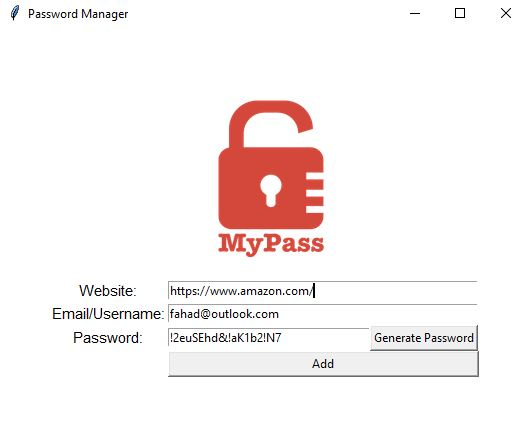
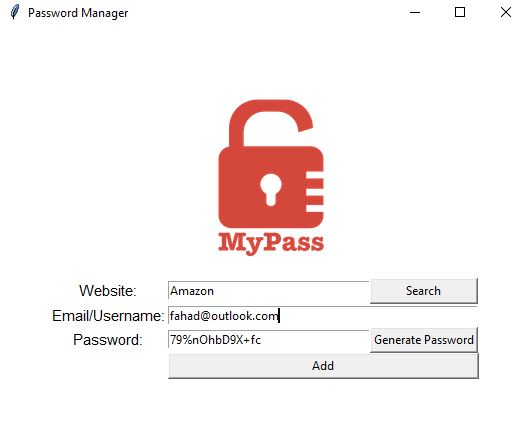
Updated App

diff --git a/main.py b/main.py
@@ -3,6 +3,7 @@ import tkinter
 from tkinter import messagebox
 from random import choice, randint, shuffle
 import pyperclip
+import json
 
 
 class PasswordManager():
@@ -17,7 +18,9 @@ class PasswordManager():
         self.pw_entry = None
         self.gen_button = None
         self.add_button = None
+        self.search_button = None
         self.current_dir = os.path.dirname(os.path.abspath(__file__))
+        self.data_file_path = os.path.join(self.current_dir, "data.json")
         self.setup_ui()
 
     # ---------------------------- UI SETUP ------------------------------- #
@@ -56,8 +59,8 @@ class PasswordManager():
 
     def _setup_user_inputs(self):
         """ Setup Input boxes from user for Website, username and password. """
-        self.web_entry = tkinter.Entry(width=51)
-        self.web_entry.grid(row=1, column=1, columnspan=2)
+        self.web_entry = tkinter.Entry(width=33)
+        self.web_entry.grid(row=1, column=1)
         # Set the cursor at website entry
         self.web_entry.focus()
         self.email_entry = tkinter.Entry(width=51)
@@ -68,12 +71,36 @@ class PasswordManager():
         self.pw_entry.grid(row=3, column=1)
 
     def _setup_buttons(self):
-        """ Setup 'Generate Password' and 'Add' Buttons. """
+        """ Setup 'Search', 'Generate Password' and 'Add' Buttons. """
+        self.search_button = tkinter.Button(text="Search", width=14,
+                                            command=self.search_password)
+        self.search_button.grid(row=1, column=2)
         self.gen_button = tkinter.Button(text="Generate Password", width=14,
                                          command=self.generate_password)
         self.gen_button.grid(row=3, column=2)
         self.add_button = tkinter.Button(text="Add", width=43, command=self.save_data)
         self.add_button.grid(row=4, column=1, columnspan=2)
+
+    # ----------------------------- SEARCH PASSWORD --------------------------------- #
+
+    def search_password(self):
+        """ Search for saved website information. If found display them, else display
+        data not found message. This method is used when 'Search' button is clicked. """
+        website = self.web_entry.get()
+        try:
+            with open(self.data_file_path, "r") as data_file:
+                data = json.load(data_file)
+        except FileNotFoundError:
+            messagebox.showinfo(title="Data File Not Found", message="No data file found.")
+        except json.decoder.JSONDecodeError:
+            messagebox.showinfo(title="Data Not Found", message="No details for website exists.")
+        else:
+            if website in data:
+                email = data[website]["email"]
+                password = data[website]["password"]
+                messagebox.showinfo(title=website, message=f"E-mail: {email}\nPassword: {password}")
+            else:
+                messagebox.showinfo(title="Data Not Found", message="No details for website exists.")
 
     # ---------------------------- PASSWORD GENERATOR ------------------------------- #
 
@@ -81,7 +108,7 @@ class PasswordManager():
         """ Generates a password that includes 8-10 letters, 2-4 numbers and 2-4 symbols
         or special characters. Clear the password input box and insert the generated
         password. Also, copy the pasword to clipboard using pyperclip library.
-        This method is used when 'Generate Password' button is clicked.  """
+        This method is used when 'Generate Password' button is clicked. """
         #Password Generator Project
         letters = ['a', 'b', 'c', 'd', 'e', 'f', 'g', 'h', 'i', 'j', 'k', 'l', 'm',
                    'n','o', 'p', 'q', 'r', 's', 't', 'u', 'v', 'w', 'x', 'y', 'z',
@@ -103,29 +130,43 @@ class PasswordManager():
 
     # ---------------------------- SAVE PASSWORD ------------------------------- #
 
+    def write_data_to_file(self, new_data):
+        """ Read data from 'data.json' file and update the file with the updated data. """
+        # Read data from 'data.json' file
+        try:
+            with open(self.data_file_path, "r") as data_file:
+                data = json.load(data_file)
+                data.update(new_data)
+        except (FileNotFoundError, json.decoder.JSONDecodeError):
+            data = new_data
+
+        # Write data to 'data.json' file with the updated data
+        with open(self.data_file_path, "w") as data_file:
+            json.dump(data, data_file, indent=4)
+
     def save_data(self):
         """ If all the users inputs are valid, saves the data (website, email/username
-        and password) to 'data.txt' file and clears the entries or the user inputs.
+        and password) to 'data.json' file and clears the entries or the user inputs using
+        write_data_to_file() method.
         This method is used when 'Add' button is clicked. """
-        # Concatenate user inputs separated by ' | ' and by adding a new line at the end
         website = self.web_entry.get()
         email = self.email_entry.get()
         pw = self.pw_entry.get()
-        data = ' | '.join([website, email, pw]) + '\n'
+        new_data = {
+            website: {
+                "email": email,
+                "password": pw,
+            }
+        }
 
         if website and email and pw:
             msg = f"These are the details entered:\nE-mail: {email}\nPassword: {pw}\n\nIs it OK to save?"
             is_ok = messagebox.askokcancel(title=website, message=msg)
             if is_ok:
-                # Store data in the file
-                data_file_path = os.path.join(self.current_dir, "data.txt")
-                with open(data_file_path, "a") as file:
-                    file.write(data)
-
+                self.write_data_to_file(new_data)
                 # Clear website and password user inputs
                 self.web_entry.delete(0, tkinter.END)
                 self.pw_entry.delete(0, tkinter.END)
-                # messagebox.showinfo(title="Add", message="OK")
         else:
             messagebox.showinfo(title="Oops", message="Please don't leave any field empty.")
 

diff --git a/README.md b/README.md
@@ -1,0 +1,24 @@
+# **Password Manager**
+
+## About
+A 'Password Manager' application developed in Python. Tkinter package is used to implement the user interface of the application.
+
+This application enables users to generate strong passwords (with letters, symbols and numbers) and store passwords locally in a file.
+
+
+## Developed Using:
+[Python](https://www.python.org/)
+
+## Dependencies:
+- Python v3.6+
+- tkinter
+- pyperclip
+- os
+- random
+
+## Contact Information:
+Fahad Chowdhury\
+[LinkedIn](https://www.linkedin.com/in/fahad-chowdhury-fi)\
+[GitHub](https://github.com/Fahad-Chowdhury)
+
+![Image Link](https://github.com/Fahad-Chowdhury/password-manager/blob/main/app.JPG)
